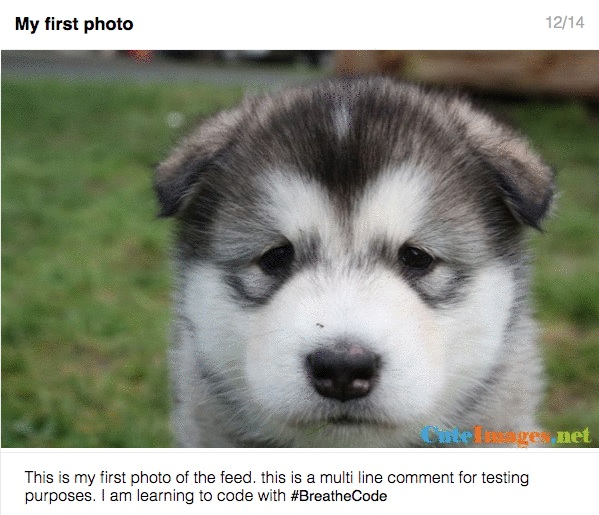
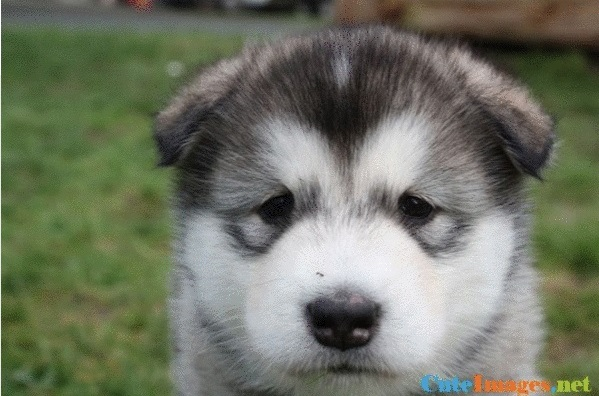
Instagram Corregido

diff --git a/index.html b/index.html
@@ -2,16 +2,82 @@
 <html>
 <head>
 	<link rel="stylesheet" type="text/css" href="styles.css">
-	<title>Copy Instagram</title>
+	<title>Instagram Feed</title>
 </head>
 <body>
-	<h1>Breathe Code Photo Feed</h1>
-		<div class="imagenes">
-			<div class="columnas">
-				<img alt="foto1" src="foto1.jpg">
-				<img alt="foto2" src="foto2.jpg">
-				<img alt="foto3" src="foto3.jpg">
-			</div>
+<div>
+	<header>
+		<div>
+			<h1>Breathcode Photo Feed</h1>
 		</div>
+	</header>
+	<div>
+		<div class="post">
+
+			<div class="post-header">
+				<span id="fecha">12/14</span>
+				<div>
+					<h2>First Photo</h2>
+					
+				</div>
+				
+			
+				<div>
+				<img alt="foto1" src="foto1.jpg">
+				</div>
+
+				<div>
+				<p>
+					This is my first pfoto of the feed, this is a multi line comment for testing purposes. I am learning to code with <b>#BreathCode</b>
+				</p>
+				</div>
+
+			</div>
+
+
+			<div class="post-header">
+				<span id="fecha">12/14</span>
+				<div>
+					<h2>Some cute things</h2>
+				</div>
+
+			
+				<div>
+				<img alt="foto2" src="foto2.jpg">
+				</div>
+
+				<div>
+				<p>
+					The internet approves this cute dog <b>#BreathCode</b>
+				</p>
+				</div>
+
+			</div>
+
+
+
+
+			<div class="post-header">
+				<span id="fecha">12/14</span>
+				<div>
+					<h2>And of course... food!</h2>
+				</div>
+			
+				<div>
+				<img alt="foto3" src="foto3.jpg">
+				</div>
+
+				<div>
+				<p>
+					Becouse no photo feed is cool without some food on it <b>#BreathCode</b>
+				</p>
+				</div>
+
+			</div>
+
+
+		</div>
+	</div>
+</div>		
 </body>
 </html>

diff --git a/styles.css b/styles.css
@@ -4,19 +4,45 @@ body{
 	margin: 0 auto;
 	width: auto;
 }
+header{
+	background-color: white;
+	width: 100%;
+	margin: auto;
+	text-align: center;
+	border-bottom: silver;
+	border-color: silver;
+	padding-top: 10px;
+}
 
-img{
-	width: 50%;
-	display: block;
-	padding: 50px 370px; 
-	border-radius: 10px 10px;
-
+div.post{
+	background-color: silver;
+	margin-top: 10px;
+}
+div.post img{
+	width: 100%;
 }
 h1{
 	margin: 0;
 	background-color: white;
 	height: 50px;
-	padding: 0 370px;
-
 }
-	
+h2{
+	padding: 10px;
+	margin: 0;
+	text-align: left;
+}
+div.post-header{
+	width: 600px;
+	padding-bottom: 10px;
+	margin: 50px auto;
+	background-color: white;
+}
+span{
+	float: right;
+	margin-top: 11px;
+	font-size: 20px;
+	font color: silver;
+}
+#fecha{
+	color: silver;
+}
